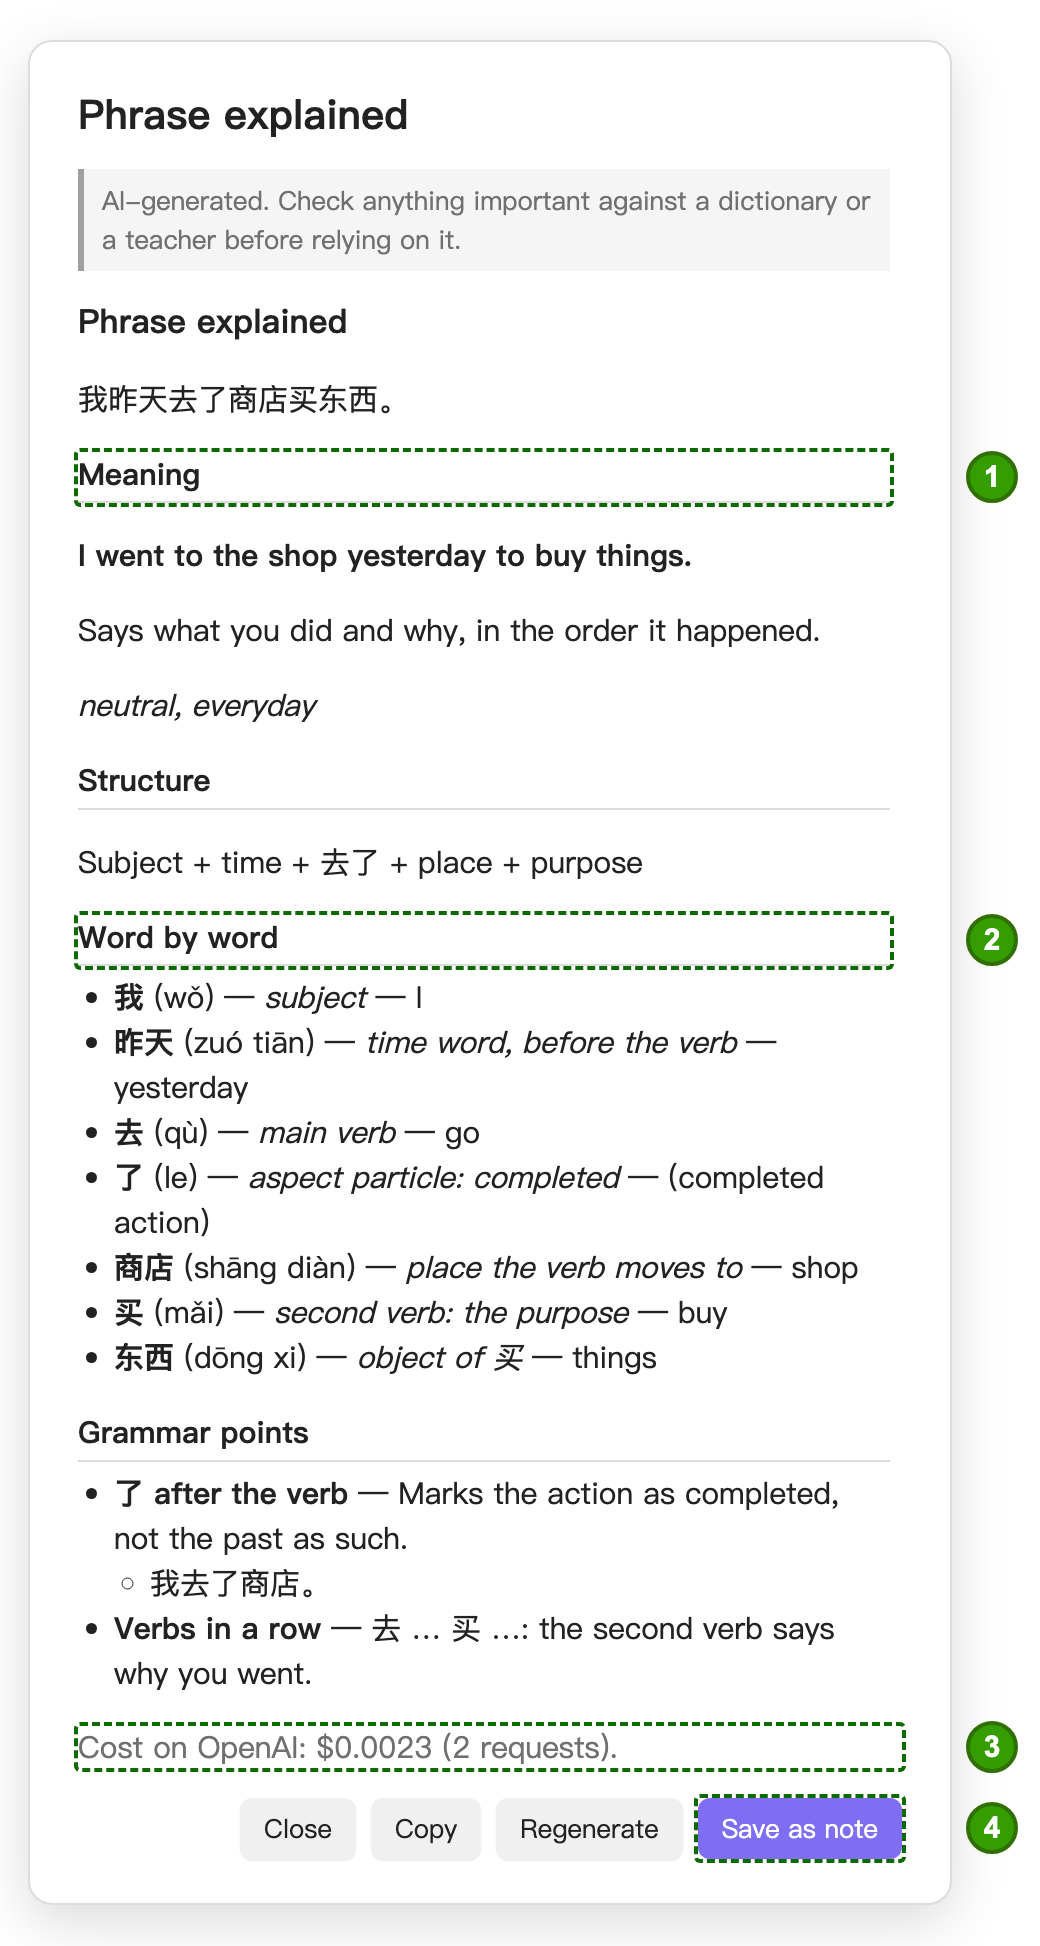
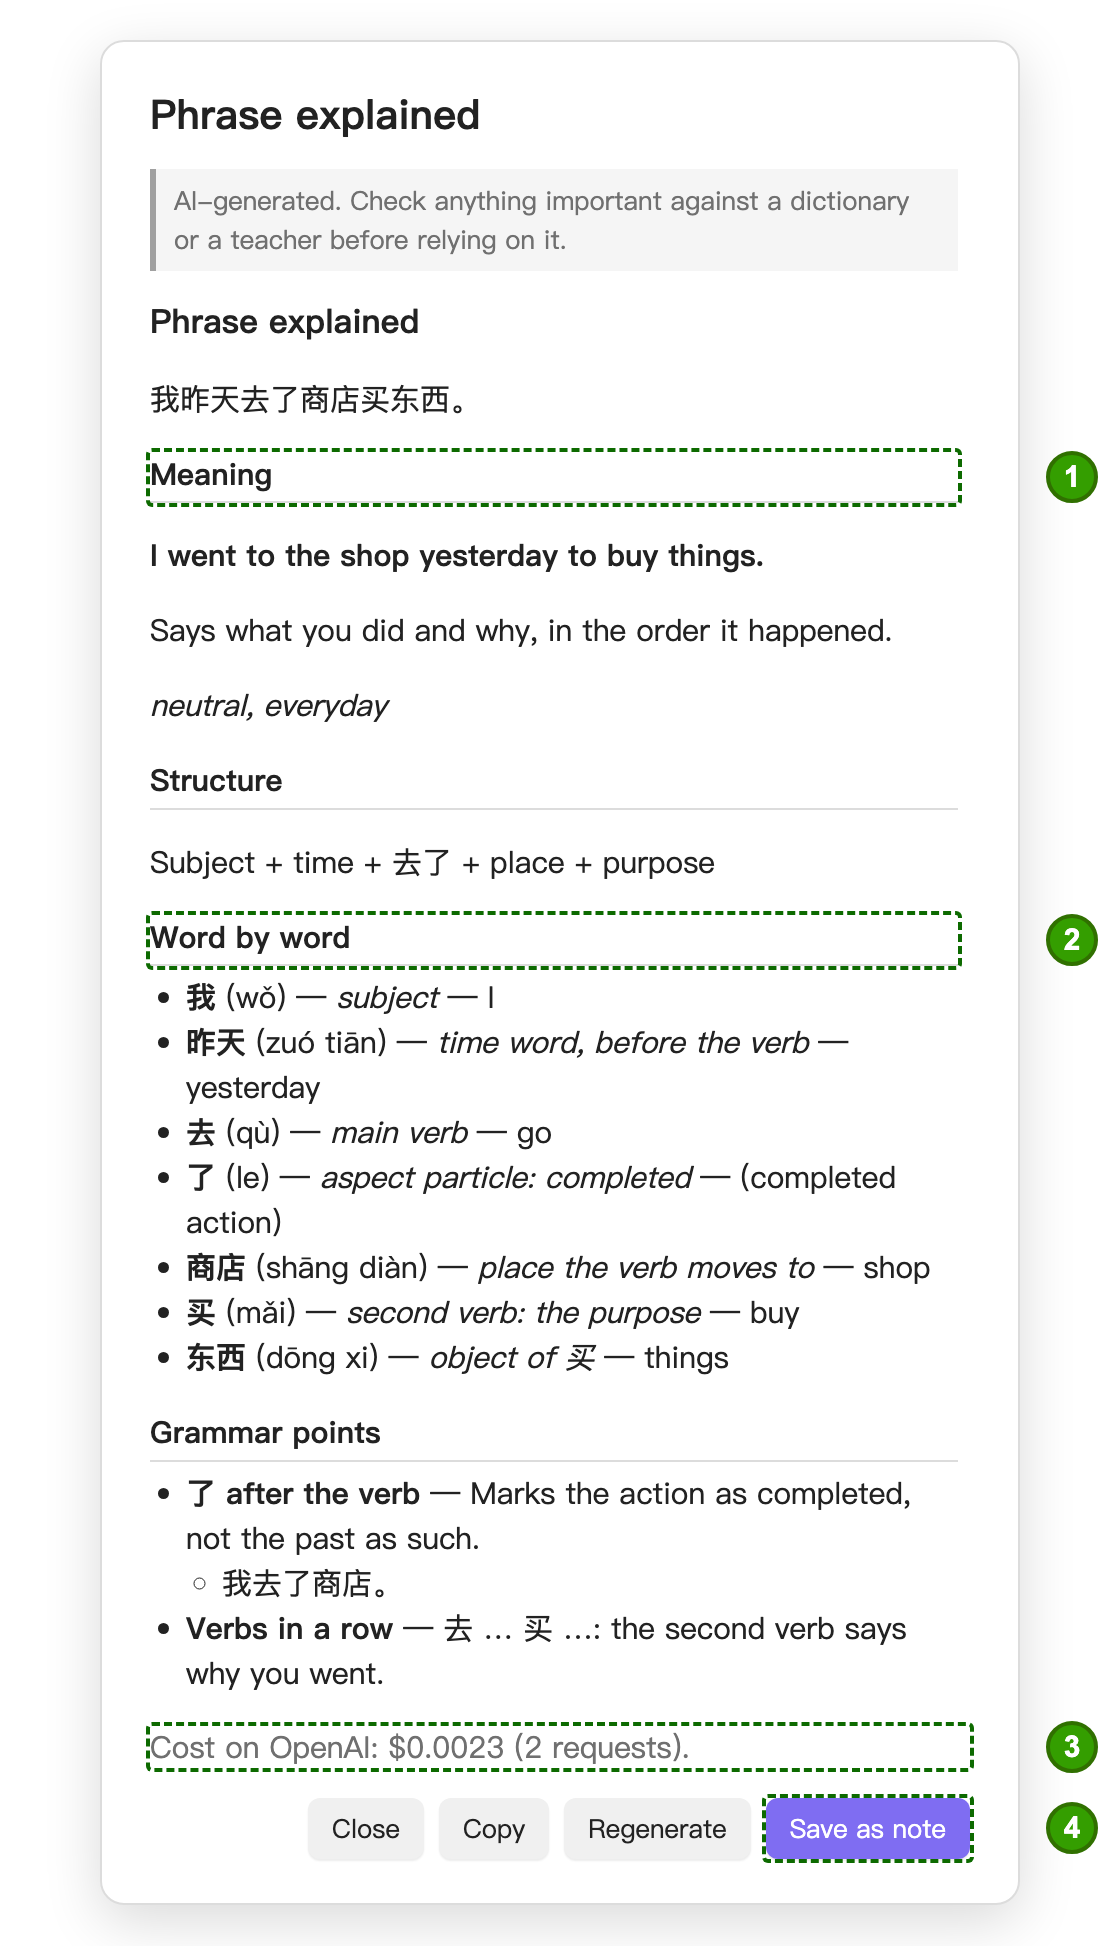
Sweep fixes (0.9.0 beta.14): AI-setup prompt for batch mnemonics, prompt texts merged key by key, Test connection placement, mnemonic scope setting moved next to the template, screenshots at one width

diff --git a/src/settings/SettingsTab.ts b/src/settings/SettingsTab.ts
@@ -541,23 +541,6 @@ export class CciSettingsTab extends PluginSettingTab {
               name: "Show mnemonic before full definition",
               control: { type: "toggle", key: "mnemonicsFirst" },
             },
-            {
-              name: "Words covered by \"Mnemonics for this note\"",
-              desc:
-                "The reader's ⋯ menu (Mnemonics for this note…) can generate a mnemonic for every word in " +
-                "the open note that has none yet, or regenerate them all. Known and ignored words are " +
-                "never included, and generating the missing ones never touches a word that already " +
-                "has a mnemonic.",
-              control: {
-                type: "dropdown",
-                key: "batchMnemonicScope",
-                options: {
-                  notKnown: "All words that are not known",
-                  marked: "Words I marked unknown or partial (not new ones)",
-                  unknown: "Only words marked unknown",
-                },
-              },
-            },
             { type: "group", heading: "Annotation lines", items: [] },
             this.prose(
               "Rows are numbered upward from the Chinese: line 2 sits directly above the " +
@@ -1048,6 +1031,20 @@ export class CciSettingsTab extends PluginSettingTab {
           control: { type: "text", key: "ai.ollama.chatModel" },
         },
         {
+          name: "Test connection",
+          desc: "Check that the active provider answers.",
+          action: () => {
+            void (async () => {
+              try {
+                const ok = await this.plugin.ai.testConnection();
+                new Notice(ok ? "AI provider reachable." : "AI provider unreachable.");
+              } catch (e) {
+                new Notice("AI test error: " + (e as Error).message);
+              }
+            })();
+          },
+        },
+        {
           type: "page",
           name: "Advanced AI",
           desc: "Self-hosted model options, how pinyin is handled when enhancing, and request tracing. Most people never need this page.",
@@ -1135,20 +1132,6 @@ export class CciSettingsTab extends PluginSettingTab {
           ],
         },
         this.aiPromptsPage(),
-        {
-          name: "Test connection",
-          desc: "Check that the active provider answers.",
-          action: () => {
-            void (async () => {
-              try {
-                const ok = await this.plugin.ai.testConnection();
-                new Notice(ok ? "AI provider reachable." : "AI provider unreachable.");
-              } catch (e) {
-                new Notice("AI test error: " + (e as Error).message);
-              }
-            })();
-          },
-        },
       ],
     };
   }
@@ -1234,9 +1217,26 @@ export class CciSettingsTab extends PluginSettingTab {
   private mnemonicPromptPage(): SettingDefinitionPage {
     return {
       type: "page",
-      name: "Mnemonic prompt",
-      desc: "Personalise what the AI is asked for when you generate a mnemonic.",
+      name: "Mnemonics",
+      desc: "Which words \"Mnemonics for this note\" covers, and what the AI is asked for a mnemonic.",
       items: [
+        {
+          name: "Words covered by \"Mnemonics for this note\"",
+          desc:
+            "The reader's ⋯ menu (Mnemonics for this note…) can generate a mnemonic for every word in " +
+            "the open note that has none yet, or regenerate them all. Known and ignored words are " +
+            "never included, and generating the missing ones never touches a word that already " +
+            "has a mnemonic.",
+          control: {
+            type: "dropdown",
+            key: "batchMnemonicScope",
+            options: {
+              notKnown: "All words that are not known",
+              marked: "Words I marked unknown or partial (not new ones)",
+              unknown: "Only words marked unknown",
+            },
+          },
+        },
         this.docLink(
           "Mnemonics",
           "How the generated mnemonic is built (a picture per character, tone numbers, story) and how to make it yours.",

diff --git a/src/tests/mainViewState.dom.test.ts b/src/tests/mainViewState.dom.test.ts
@@ -351,11 +351,25 @@ describe("the story modal, the word popup and marking", () => {
     expect(document.body.querySelector(".cci-explain-modal")).toBeTruthy();
   });
 
-  it("the batch mnemonic dialog needs AI switched on too", () => {
-    const off = plugin({ settings: settings((s) => (s.ai.enabled = false)) });
+  it("the batch mnemonic dialog asks a user who has not set AI up to do so, and opens once it is set up", () => {
+    const off = plugin({ settings: settings((s) => (s.ai.enabled = false)), manifest: { id: "p" } });
     off.openBatchMnemonicModal("你好");
-    expect(Notice.instances.at(-1)!.message).toBe("Enable AI in plugin settings first.");
-    const on = plugin({ settings: settings((s) => (s.ai.enabled = true)), tokenizer: { tokenize: async () => [] } });
+    expect(document.body.querySelector(".cci-aisetup-modal")).toBeTruthy();
+    expect(document.body.querySelector(".cci-batch-mnemonic-modal")).toBeNull();
+    document.body.innerHTML = "";
+    const noKey = plugin({
+      settings: settings((s) => ((s.ai.enabled = true), (s.ai.provider = "openai"))),
+      manifest: { id: "p" },
+      app: { workspace: workspace(), loadLocalStorage: () => null },
+    });
+    noKey.openBatchMnemonicModal("你好");
+    expect(document.body.querySelector(".cci-aisetup-modal")).toBeTruthy();
+    document.body.innerHTML = "";
+    const on = plugin({
+      settings: settings((s) => (s.ai.enabled = true)),
+      app: { workspace: workspace(), loadLocalStorage: () => "sk-test" },
+      tokenizer: { tokenize: async () => [] },
+    });
     on.openBatchMnemonicModal("你好");
     expect(document.body.querySelector(".cci-batch-mnemonic-modal")).toBeTruthy();
   });

diff --git a/src/tests/mainLifecycle.dom.test.ts b/src/tests/mainLifecycle.dom.test.ts
@@ -1,4 +1,5 @@
 // @vitest-environment happy-dom
+import { DEFAULT_SETTINGS } from "../settings/defaults";
 import { afterEach, beforeEach, describe, expect, it, vi } from "vitest";
 import { Platform } from "obsidian";
 import { installObsidianDom } from "./__mocks__/obsidianDom";
@@ -255,6 +256,16 @@ describe("the stored settings are merged with the defaults", () => {
     expect(Object.keys(env.plugin.settings.customColors.hsk)).toHaveLength(7);
     await vi.advanceTimersByTimeAsync(0);
     expect((env.plugin.data as any).settings.hskColorsDerivedFromAccent).toBe(true);
+  });
+
+  it("a saved blob that holds only some of the prompt texts keeps them and gets the rest empty, without touching the defaults", async () => {
+    const env = load({ data: { settings: { ai: { ollama: {}, promptExtras: { explain: "in German" }, promptOverrides: { phrase: "MINE" } } } } });
+    await env.plugin.onload();
+    const ai = env.plugin.settings.ai;
+    expect(ai.promptExtras).toEqual({ explain: "in German", phrase: "", proofread: "" });
+    expect(ai.promptOverrides).toEqual({ explain: "", phrase: "MINE", proofread: "" });
+    ai.promptExtras.phrase = "changed";
+    expect(DEFAULT_SETTINGS.ai.promptExtras.phrase).toBe("");
   });
 
   it("an already-derived palette is left as the user saved it", async () => {

diff --git a/src/main.ts b/src/main.ts
@@ -449,6 +449,10 @@ export default class CciPlugin extends Plugin {
         ...migrated.ai,
         ollama: { ...DEFAULT_SETTINGS.ai.ollama, ...migrated.ai.ollama },
         usageLog: migrated.ai.usageLog ?? [],
+        // Copies, and merged key by key: a hand-edited blob may hold only some of the keys, and the defaults object
+        // must never be the one a settings change writes into.
+        promptExtras: { ...DEFAULT_SETTINGS.ai.promptExtras, ...migrated.ai.promptExtras },
+        promptOverrides: { ...DEFAULT_SETTINGS.ai.promptOverrides, ...migrated.ai.promptOverrides },
       };
       // Belt-and-suspenders: the localStorage move means apiKey must
       // never be persisted to data.json. Force it back to "" in case a
@@ -1679,8 +1683,8 @@ export default class CciPlugin extends Plugin {
 
   /** Reader menu: a mnemonic for every word of the open note that has none (see BatchMnemonicModal). */
   openBatchMnemonicModal(noteText: string): void {
-    if (!this.settings.ai.enabled) {
-      new Notice("Enable AI in plugin settings first.");
+    if (!this.aiConfigured()) {
+      this.promptAiSetup("Mnemonics for this note");
       return;
     }
     new BatchMnemonicModal(this.app, this, noteText).open();

diff --git a/src/ai/prompts.ts b/src/ai/prompts.ts
@@ -232,7 +232,7 @@ export const MNEMONIC_SYSTEM_PROMPT =
 
 /**
  * Default user-prompt template for mnemonic generation. Users can rewrite
- * this in Settings → AI provider → AI prompts → Mnemonic prompt to personalise the
+ * this in Settings → AI provider → AI prompts → Mnemonics to personalise the
  * result (their own imagery, humour, language, memory palace, …). The facts
  * block (characters, tones, budget) is appended by the app whatever the
  * template says, so a rewritten template cannot lose it.

diff --git a/docs/explain.md b/docs/explain.md
@@ -10,7 +10,7 @@ you met (it still covers the other senses).
 
 ## What is in a note
 
-<img src="../resources/screenshots/explain-word-annotated.png" alt="A word note: sections, watch-out list, cost and Save" width="420">
+<img width="560" src="../resources/screenshots/explain-word-annotated.png" alt="A word note: sections, watch-out list, cost and Save">
 
 Every note has the same layout, so it is easy to scan on a phone:
 
@@ -61,9 +61,9 @@ The selection is limited (default 150 characters, about two or three sentences; 
 text**): more costs more and is explained worse. A longer selection is refused with the count, and you can simply tap an
 earlier last word.
 
-<img src="../resources/screenshots/desktop-lightbulb-annotated.png" alt="Lightbulb mode: banner with the Explain / Proof read dropdown" width="560">
+<img width="560" src="../resources/screenshots/desktop-lightbulb-annotated.png" alt="Lightbulb mode: banner with the Explain / Proof read dropdown">
 
-<img src="../resources/screenshots/explain-phrase-confirm-annotated.png" alt="The confirm dialog: text, length, cost, Explain" width="420">
+<img width="560" src="../resources/screenshots/explain-phrase-confirm-annotated.png" alt="The confirm dialog: text, length, cost, Explain">
 
 The confirm dialog: **1** the text that will be sent, **2** its length against the limit, **3** the estimated cost, **4** the button
 that actually sends it.
@@ -80,7 +80,7 @@ that actually sends it.
 - A **typo** is mentioned briefly in the note, and the words are explained as written.
 - If the check says the text is **wrong** (so broken that an explanation would teach something false), the dialog says why and
   offers **Proof read this instead**; it does not explain wrong grammar.
-<img src="../resources/screenshots/explain-phrase-annotated.png" alt="A phrase explained word by word" width="420">
+<img width="560" src="../resources/screenshots/explain-phrase-annotated.png" alt="A phrase explained word by word">
 
 - Like the word note: preview first, then **Save as note** (same folder; `cci-explain-phrase` in its header), **Copy**
   or **Regenerate**.
@@ -96,7 +96,7 @@ dialog was open, nothing is replaced and you are told to select again). Text tha
 highlights, links) can still be applied when the wrong part itself is plain text; if the formatting runs through it, copy
 the corrected text instead.
 
-<img src="../resources/screenshots/explain-proofread-annotated.png" alt="Proof reading with Apply and Apply all" width="420">
+<img width="560" src="../resources/screenshots/explain-proofread-annotated.png" alt="Proof reading with Apply and Apply all">
 
 ### Cost
 

diff --git a/README.md b/README.md
@@ -15,7 +15,7 @@ below; deeper explanations live in [`docs/`](./docs/index.md).
 
 ### Reading toolbar (desktop)
 
-<img src="resources/screenshots/desktop-toolbar-annotated.png" alt="Annotated Chinese-view toolbar" width="620">
+<img width="560" src="resources/screenshots/desktop-toolbar-annotated.png" alt="Annotated Chinese-view toolbar">
 
 - **1 · Edit** — toggle between read and edit (type Chinese with annotations off).
 - **2 · Known**, **3 · Unknown**, **4 · Partial** — tap a word to set its status.
@@ -212,14 +212,14 @@ Reading real Chinese raises questions a dictionary cannot answer. The plugin can
 - **Why does this word work here?** Tap a word and choose *Explain*: when to use it, how learners get it wrong, similar words and how its characters are built. Save it as a note if it is worth keeping.
 - **What is this sentence doing?** Tap the lightbulb, then the first and last word. You get the meaning, the structure, the job of every word and the grammar points.
 
-<img src="resources/screenshots/desktop-lightbulb-annotated.png" alt="Lightbulb mode: banner with the Explain / Proof read dropdown" width="560">
+<img width="560" src="resources/screenshots/desktop-lightbulb-annotated.png" alt="Lightbulb mode: banner with the Explain / Proof read dropdown">
 
 1. **Lightbulb** — armed. 2. **Hint** — tap the last word. 3. **Explain / Proof read** — pick what happens. 4. **Exit**.
 
 <p>
-<img src="resources/screenshots/explain-phrase-annotated.png" alt="A phrase explained word by word" height="430">
+<img width="400" src="resources/screenshots/explain-phrase-annotated.png" alt="A phrase explained word by word">
 &nbsp;
-<img src="resources/screenshots/explain-proofread-annotated.png" alt="Proof reading with Apply" height="430">
+<img width="400" src="resources/screenshots/explain-proofread-annotated.png" alt="Proof reading with Apply">
 </p>
 
 Left: a phrase explained (1 · meaning, 2 · the job of every word, 3 · what it cost, 4 · save). Right: proof reading (1 · **Apply** one fix into your note, 2 · copy the corrected text, or **Apply all**).

diff --git a/docs/mnemonics.md b/docs/mnemonics.md
@@ -128,7 +128,7 @@ Details of generating and regenerating:
 - **Which words** — by default every word that is not known: new words you
   have not classified yet, unknown words and the partly-known ones. Known
   words are never included, and neither are ignored ones. Change this under
-  **Settings → Display → Advanced display → Words covered by "Mnemonics for
+  **Settings → AI provider → AI prompts ▾ → Mnemonics ▾ → Words covered by "Mnemonics for
   this note"**: only words you marked unknown or partial, or only words marked
   unknown.
 - **What is sent** — for each word: the word, its pinyin, traditional form,
@@ -156,7 +156,7 @@ Details of generating and regenerating:
 
 ## Personalising the prompt
 
-**Settings → AI provider → AI prompts ▾ → Mnemonic prompt ▾** holds the *user* half of
+**Settings → AI provider → AI prompts ▾ → Mnemonics ▾** holds the *user* half of
 the prompt. Rewrite it to use imagery you personally remember, ask for a
 different language, or point it at a memory palace you already use.
 

diff --git a/docs/word-states.md b/docs/word-states.md
@@ -40,7 +40,7 @@ Three ways, in increasing weight:
    translation to set the status · 3. **Per-word stats** (HSK, seen, last,
    status, SRS due) · 4. **Exposure history** · 5. **Actions** — Ignore,
    **Mnemonic** (write your own or generate — see [Mnemonics](./mnemonics.md)),
-   Edit, or **Enhance** (AI — see [OpenAI setup](./openai-setup.md)).
+   **Explain** (AI usage note — see [Explain](./explain.md)), Edit, or **Enhance** (AI — see [OpenAI setup](./openai-setup.md)).
 2. **Marking modes in the toolbar.** Switch the view into Mark known /
    Mark unknown / Mark partial mode using the toolbar buttons. Now
    single-tapping any word sets it to that status. Switch back to

diff --git a/docs/faq.md b/docs/faq.md
@@ -158,7 +158,7 @@ running shows a restart hint first and the popup after the restart. Press **Don'
 About → Show what's new after an update**, to turn it off. Switching that setting off and on again makes the current
 notes appear at the next start, and **Show what's new now** (also a command) opens them immediately.
 
-<img src="../resources/screenshots/whats-new-annotated.png" alt="The What's new popup" width="420">
+<img width="560" src="../resources/screenshots/whats-new-annotated.png" alt="The What's new popup">
 
 ## Where are the Explain and prompt settings?
 

diff --git a/docs/display-modes.md b/docs/display-modes.md
@@ -7,7 +7,7 @@ them.
 
 ## The toolbar
 
-<img src="../resources/screenshots/desktop-toolbar-annotated.png" alt="Annotated Chinese-view toolbar" width="620">
+<img width="560" src="../resources/screenshots/desktop-toolbar-annotated.png" alt="Annotated Chinese-view toolbar">
 
 - **1 · Edit** (read ↔ edit) · **2 · Known** · **3 · Unknown** · **4 · Partial** — tap a word to set its status.
 - **5 · Add custom word** · **6 · Highlighter** ([formatting mode](./formatting.md)) · **7 · Lightbulb** (tap the first
